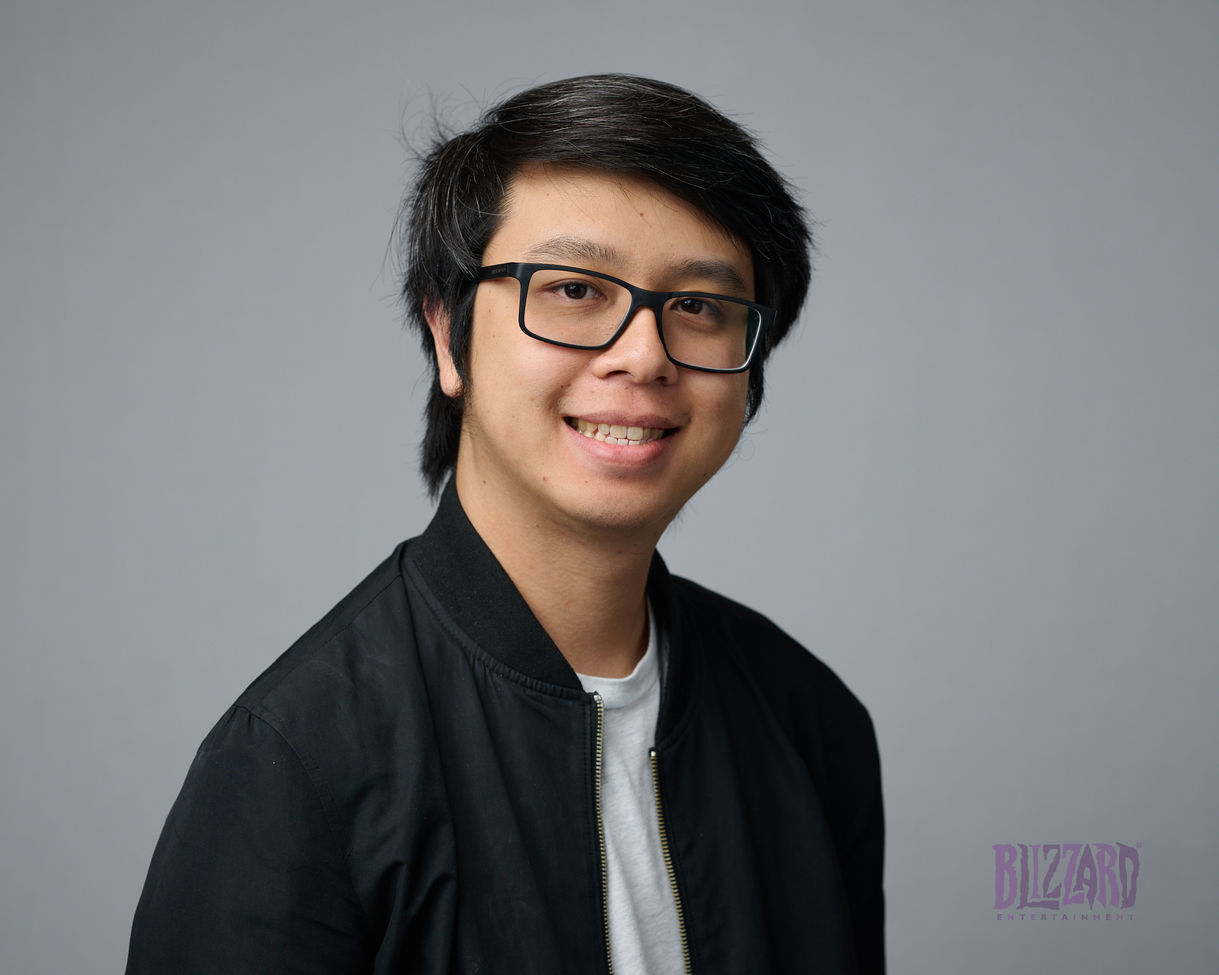
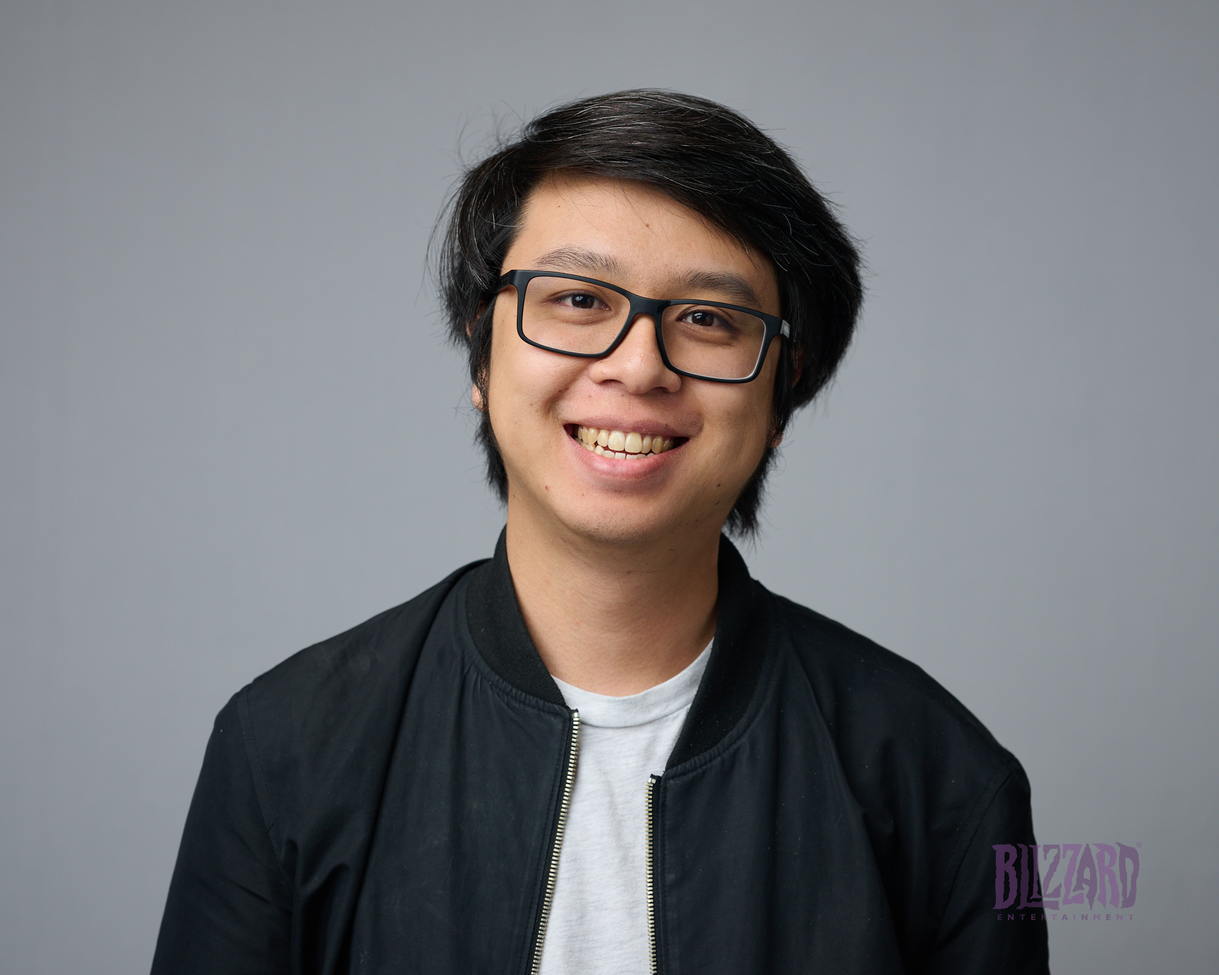
Fixed typo and updated about me photo

diff --git a/aboutMe.html b/aboutMe.html
@@ -45,8 +45,8 @@
         <div class="col-md">
           <div class="jumbotron jumbotron-fluid" style="background: transparent; color: white;">
             <div class="container-fluid">
-              <h1 class="display-4">Senior Software Engineer</h1>
-              <h1 class="display-4">Indie Development</h1>
+              <h1 class="display-4">Senior Software Engineer and</h1>
+              <h1 class="display-4">Indie Developer</h1>
               <p class="lead" style="color: white;">
                   Currently a Senior Software Engineer at <a target="_blank" href="https://www.blizzard.com/" style="color: white;"><b>Blizzard Entertainment Inc.</b></a>
                   <br>Currently a partner of an LLC I helped founded called <a target="_blank" href="https://friendcastle.org/home" style="color: white;"><b>Friend Castle.</b></a>
